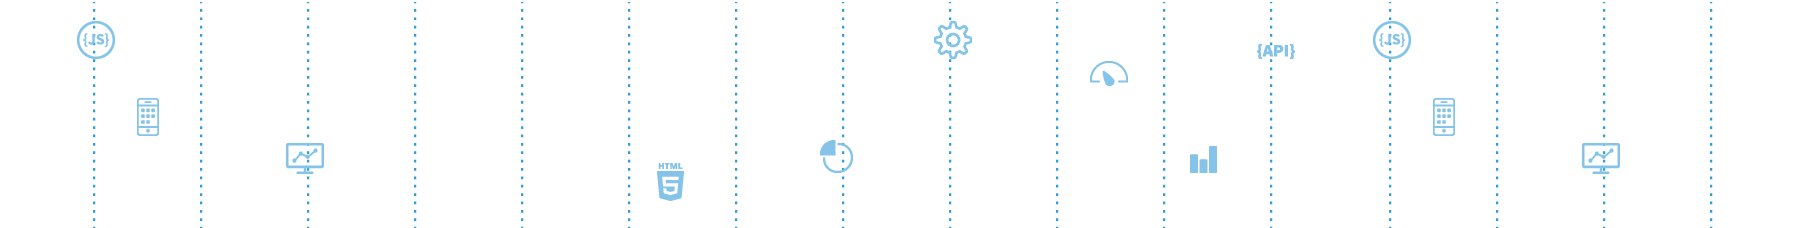
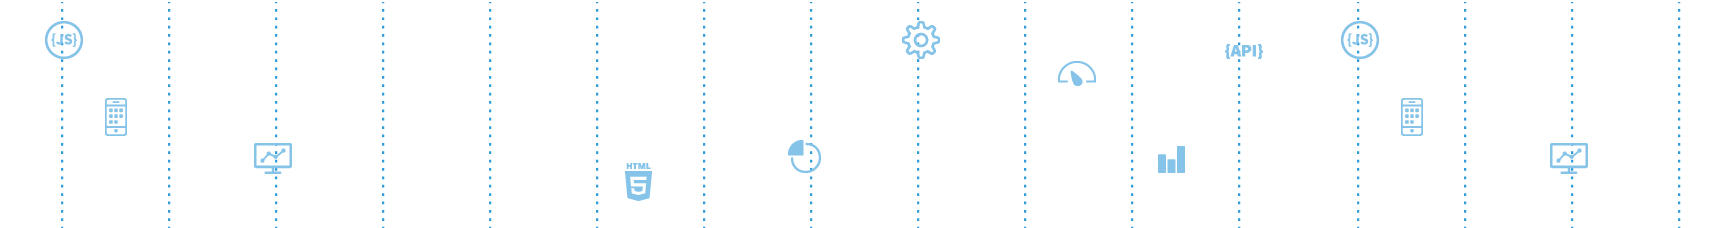
Design: shapes bg update

diff --git a/src-css/scss/_base.scss b/src-css/scss/_base.scss
@@ -149,7 +149,7 @@ html {
         color: $intro-color;
         background-image: url('/shapes.png');
         //background-position: center;
-        background-position: calc(50% + 240px) 130%;
+        background-position: calc(50% + 235px) 130%;
         .text {
           padding: 0 40px;
           .description {
